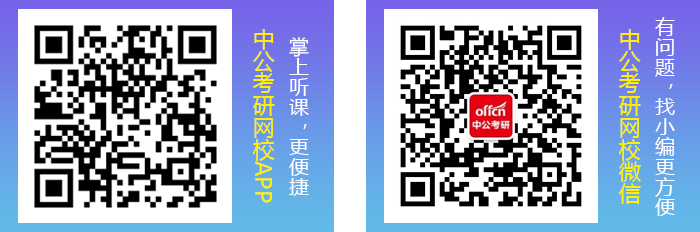
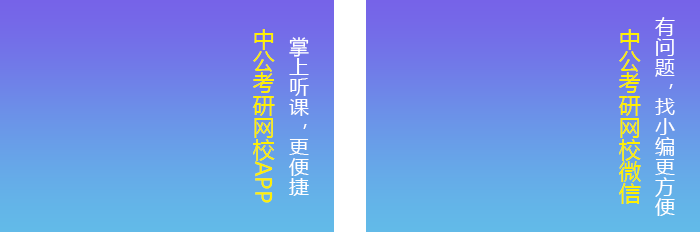
main5

diff --git a/css/index.css b/css/index.css
@@ -301,11 +301,20 @@ header p{
 	margin: 1.25rem auto 0;
 	box-shadow: 0px 0.125rem  0.25rem 0.25rem #ccc;
 	overflow: hidden;
+	background: url(../image/main5.png) no-repeat center 0.875rem;
+	background-size: 17.5rem 5.8rem
 }
 .main5 img{
-	display: block;
-	margin-top: 0.9rem;
-	width: 17.5rem
+	float: left;
+	width: 5.35rem
+}
+.main5 img:nth-child(1){
+	margin-left: 0.45rem;
+	margin-top: 1.125rem
+}
+.main5 img:nth-child(2){
+	margin-left: 3.825rem;
+	margin-top: 1.125rem
 }
 .ff{
 	height: 2.675rem;

diff --git a/index.html b/index.html
@@ -856,7 +856,8 @@
 <!-- end main4 -->
 <!-- main5 -->
 <div class="main5">
-	<img src="image/main5.png" alt="">
+	<img src="image/main5_1.png" alt="">
+	<img src="image/main5_2.png" alt="">
 </div>
 <!-- end main5 -->
 <div class="ff">
